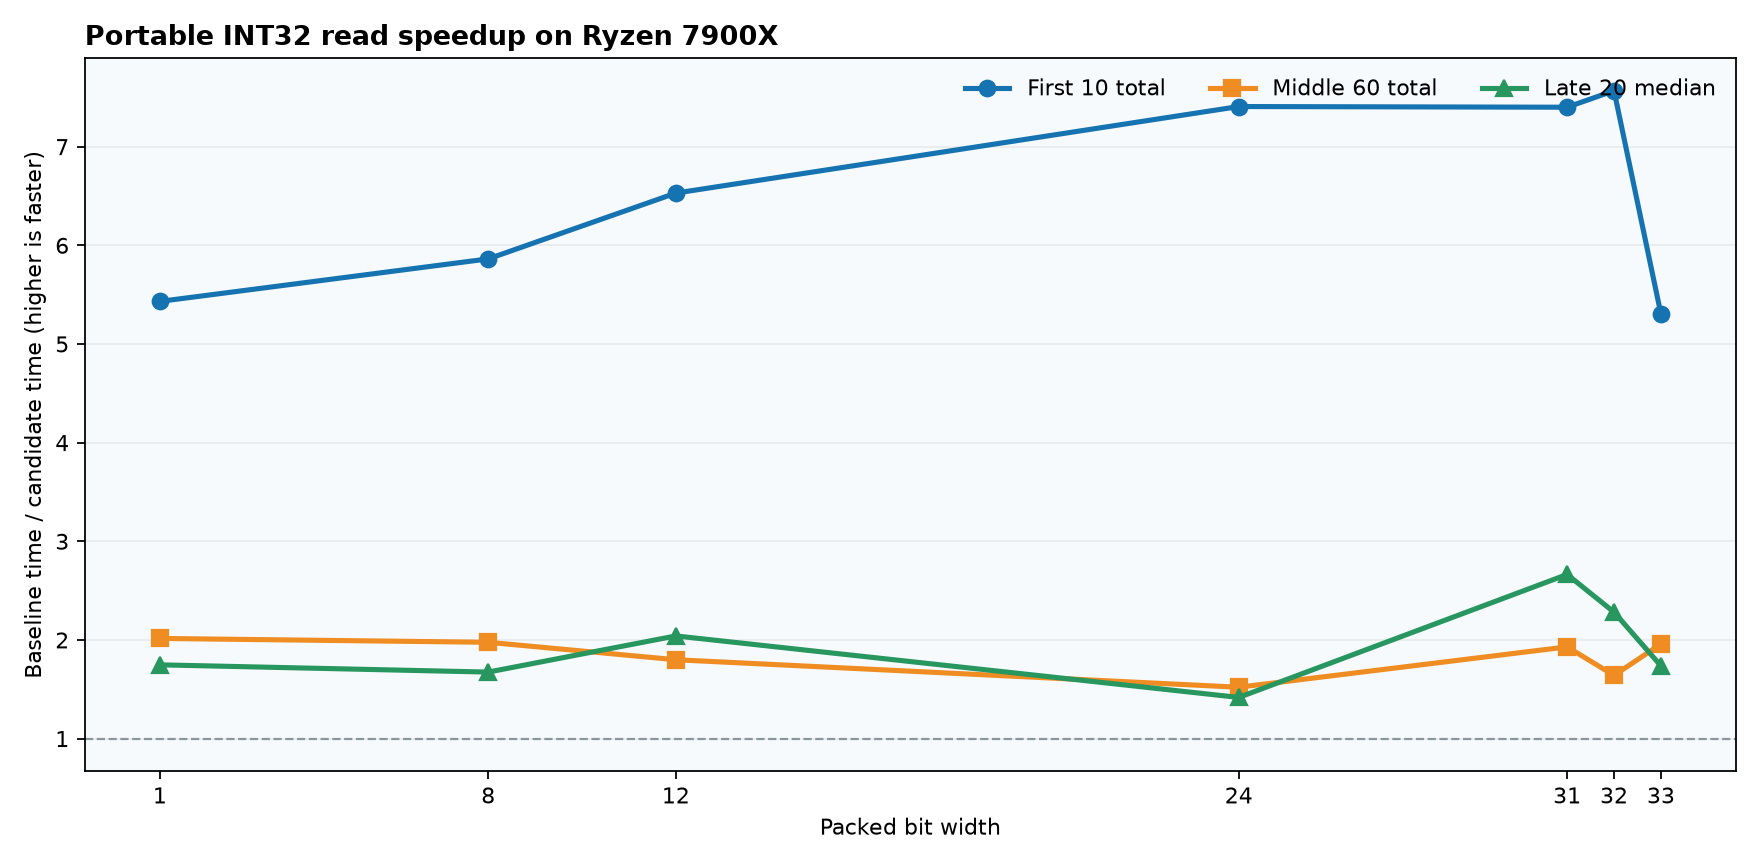
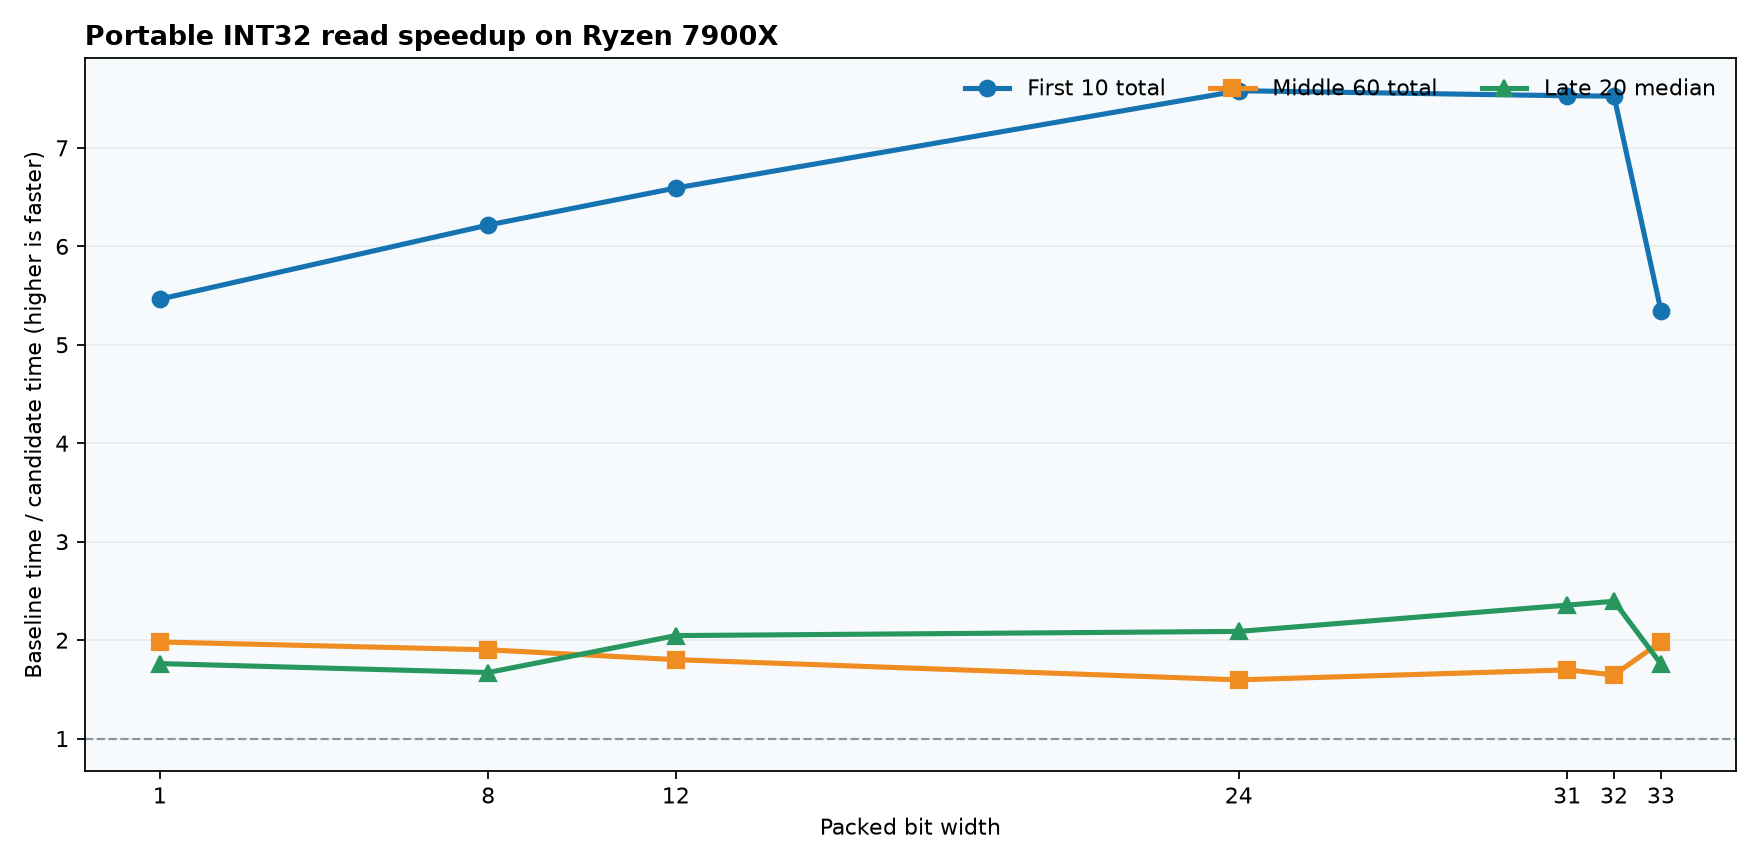
Publish exact PR 153 x64 width matrix

diff --git a/docs/benchmarks/portable-int32-all-width-candidate.html b/docs/benchmarks/portable-int32-all-width-candidate.html
@@ -1,1 +1,1 @@
-<!doctype html><html lang="en"><head><meta charset="utf-8"><meta name="viewport" content="width=device-width,initial-scale=1"><title>Portable INT32 all-width candidate · Plank Lab</title><link rel="stylesheet" href="write-benchmarks-v16.css?v=3"><style>main{max-width:1150px;margin:0 auto;padding:1.5rem;line-height:1.45}a{color:#147ca0}.table-wrap{overflow-x:auto}table{border-collapse:collapse;width:100%}th,td{padding:.6rem;border-bottom:1px solid #888;text-align:left;white-space:nowrap}</style></head><body><main><p><a href="performance-fix-experiments.html">← Performance fix experiments</a></p><h1>Portable INT32 all-width candidate</h1><p>September 29, 2026 · Ryzen 7900X · published Plank public API · AVX2 and AVX-512 disabled · one isolated CPU · 100 ordered ColdStart iterations per width.</p><p>These are preliminary measurements of the generated-width prototype preceding draft <a href="https://github.com/Kuinox/Plank/pull/153">PR #153</a>. The measured width-specific bodies match the PR, but its dispatch was extended from widths 1–32 to 1–56 after these runs. Exact-head x64 and ARM checks remain pending. Width 33 uses the committed candidate; other plotted widths use the earlier 1–32 dispatcher prototype. <a href="portable-int32-all-width-candidate-v1.json">Download all ordered samples (JSON)</a>.</p><p><img src="portable-int32-all-width-candidate.png" alt="Baseline over candidate speedup for the first ten, middle sixty, and late twenty read iterations by packed width" style="max-width:100%;height:auto"></p><div class="table-wrap"><table><thead><tr><th>Width</th><th>First ten sum, candidate / base</th><th>Middle sixty sum</th><th>Late twenty median</th></tr></thead><tbody><tr><td>1</td><td>212.9 / 1156.3 (0.18×)</td><td>1197.7 / 2413.7 (0.50×)</td><td>20.0 / 34.9 (0.57×)</td></tr><tr><td>8</td><td>226.6 / 1328.5 (0.17×)</td><td>1273.0 / 2515.8 (0.51×)</td><td>21.2 / 35.5 (0.60×)</td></tr><tr><td>12</td><td>240.3 / 1569.0 (0.15×)</td><td>1353.1 / 2434.8 (0.56×)</td><td>17.6 / 35.8 (0.49×)</td></tr><tr><td>24</td><td>270.0 / 2000.2 (0.14×)</td><td>1580.9 / 2404.1 (0.66×)</td><td>25.7 / 36.4 (0.71×)</td></tr><tr><td>31</td><td>287.7 / 2128.6 (0.14×)</td><td>1602.2 / 3091.9 (0.52×)</td><td>17.8 / 47.4 (0.38×)</td></tr><tr><td>32</td><td>259.5 / 1963.7 (0.13×)</td><td>1498.7 / 2458.8 (0.61×)</td><td>15.9 / 36.4 (0.44×)</td></tr><tr><td>33</td><td>213.9 / 1134.1 (5.30× faster)</td><td>1205.3 / 2361.1 (1.96× faster)</td><td>20.0 / 34.8 (1.74× faster)</td></tr></tbody></table></div><p>Release <code>Plank.dll</code>: 752,128 bytes baseline → 782,848 bytes candidate (+30,720 bytes, +4.1%).</p></main></body></html>
+<!doctype html><html lang="en"><head><meta charset="utf-8"><meta name="viewport" content="width=device-width,initial-scale=1"><title>Portable INT32 all-width candidate · Plank Lab</title><link rel="stylesheet" href="write-benchmarks-v16.css?v=3"><style>main{max-width:1150px;margin:0 auto;padding:1.5rem;line-height:1.45}a{color:#147ca0}.table-wrap{overflow-x:auto}table{border-collapse:collapse;width:100%}th,td{padding:.6rem;border-bottom:1px solid #888;text-align:left;white-space:nowrap}</style></head><body><main><p><a href="performance-fix-experiments.html">← Performance fix experiments</a></p><h1>Portable INT32 all-width candidate</h1><p>September 29, 2026 · Ryzen 7900X · published Plank public API · AVX2 and AVX-512 disabled · one isolated CPU · 100 ordered ColdStart iterations per width.</p><p>Every row below measures exact draft <a href="https://github.com/Kuinox/Plank/pull/153">PR #153</a> head <code>6920dca</code> against master <code>60c4749</code>. Width 33 uses alternating INT32 extremes; other widths use the configurable sequence. <a href="portable-int32-all-width-candidate-v1.json">Download all ordered samples (JSON)</a>.</p><p><img src="portable-int32-all-width-candidate.png" alt="Baseline over candidate speedup for the first ten, middle sixty, and late twenty read iterations by packed width" style="max-width:100%;height:auto"></p><div class="table-wrap"><table><thead><tr><th>Width</th><th>First ten sum, candidate / base</th><th>Middle sixty sum</th><th>Late twenty median</th></tr></thead><tbody><tr><td>1</td><td>211.2 / 1154.0</td><td>1188.3 / 2354.3</td><td>19.8 / 34.8</td></tr><tr><td>8</td><td>224.6 / 1396.0</td><td>1264.9 / 2405.7</td><td>21.0 / 35.2</td></tr><tr><td>12</td><td>237.7 / 1566.9</td><td>1342.5 / 2419.1</td><td>17.4 / 35.6</td></tr><tr><td>24</td><td>266.7 / 2021.4</td><td>1513.8 / 2417.1</td><td>17.4 / 36.4</td></tr><tr><td>31</td><td>281.6 / 2120.6</td><td>1573.8 / 2672.3</td><td>17.2 / 40.5</td></tr><tr><td>32</td><td>259.2 / 1950.6</td><td>1478.5 / 2434.3</td><td>15.1 / 36.3</td></tr><tr><td>33</td><td>213.3 / 1140.2</td><td>1200.4 / 2381.0</td><td>20.0 / 35.1</td></tr></tbody></table></div><p>Release <code>Plank.dll</code>: 752,128 bytes baseline → 782,848 bytes candidate (+30,720 bytes, +4.1%).</p></main></body></html>
